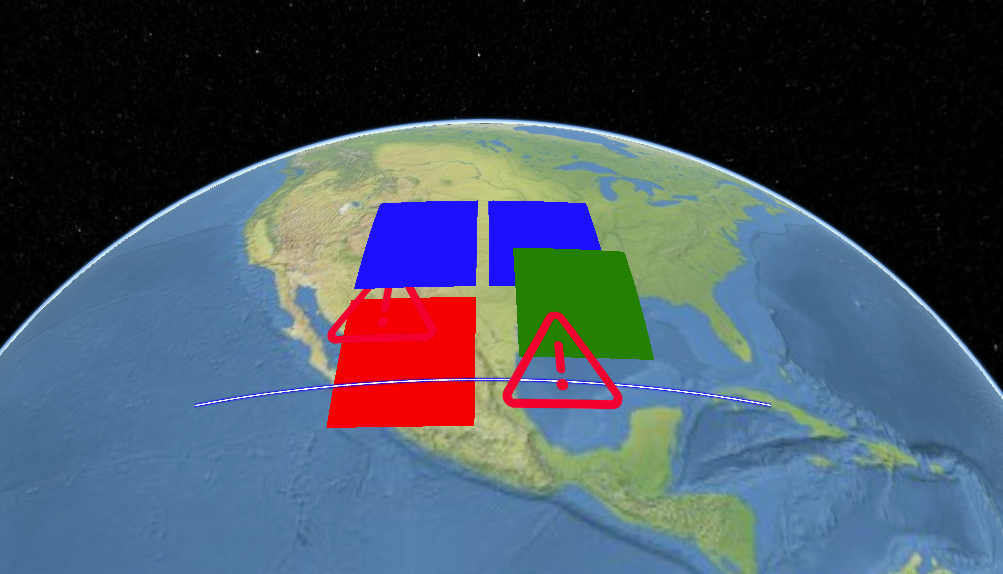
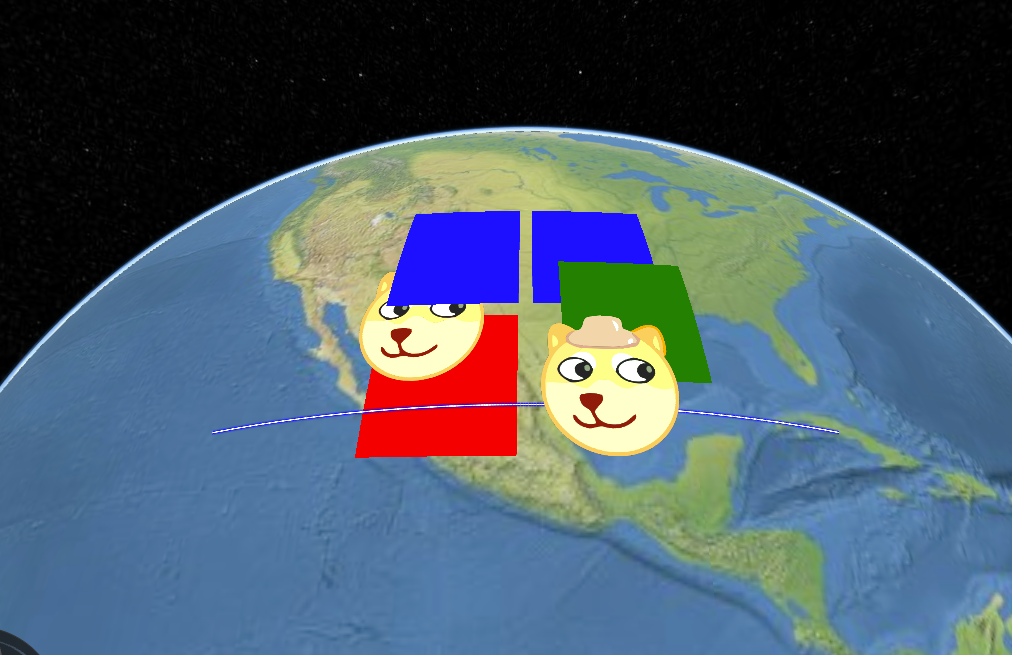
feat(cesium-examples): 更新箭头贴图和缩略图，调整控制面板默认状态
- 替换箭头贴图和缩略图文件以提升视觉效果。
- 修改控制面板的默认状态为收起，并调整相关尺寸设置，优化用户体验。

diff --git a/apps/cesium-examples/src/App.tsx b/apps/cesium-examples/src/App.tsx
@@ -131,7 +131,15 @@ function App() {
   const [consoleMessages, setConsoleMessages] = useState<ConsoleMessage[]>([]);
   // 收起后面板只留 36px 顶栏，再展开时回到收起前的高度
   const consolePanelRef = usePanelRef();
-  const [consoleCollapsed, setConsoleCollapsed] = useState(false);
+  const [consoleCollapsed, setConsoleCollapsed] = useState(true);
+
+  // 默认收起。先记一档展开高度再 collapse，否则第一次展开没有可恢复的尺寸。
+  useEffect(() => {
+    const panel = consolePanelRef.current;
+    if (!panel) return;
+    panel.resize(100);
+    panel.collapse();
+  }, [consolePanelRef]);
 
   const toggleConsole = useCallback(() => {
     const panel = consolePanelRef.current;
@@ -306,7 +314,7 @@ function App() {
               collapsible
               collapsedSize={36}
               minSize={36}
-              defaultSize={100}
+              defaultSize={36}
               onResize={() => {
                 const next = consolePanelRef.current?.isCollapsed() ?? false;
                 setConsoleCollapsed(prev => (prev === next ? prev : next));
